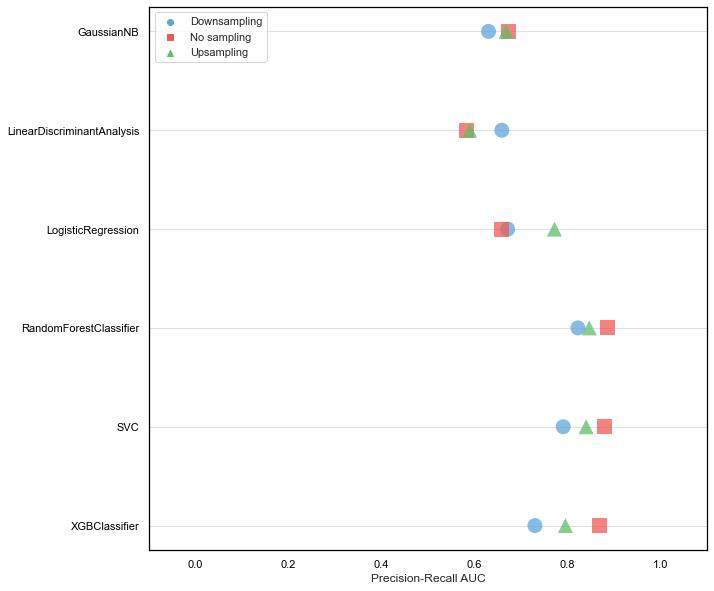
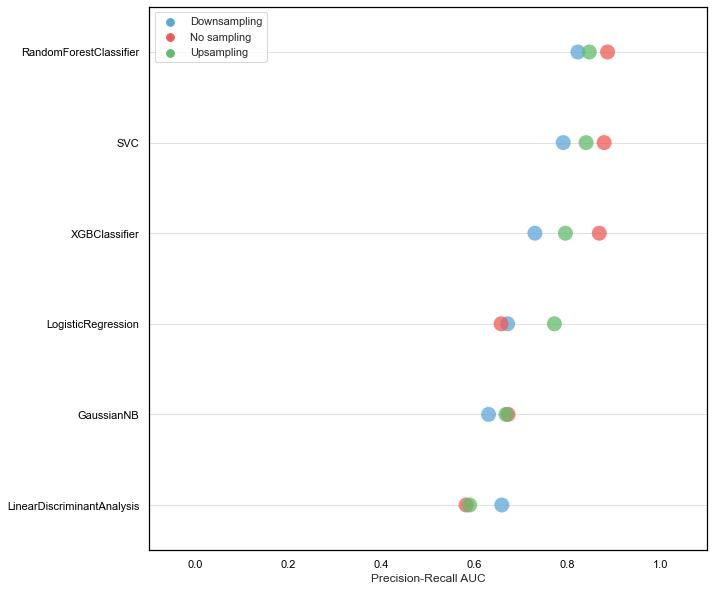
fixed plots

diff --git a/code/model_comparison.py b/code/model_comparison.py
@@ -29,8 +29,8 @@ for idx, val in enumerate(df.columns[2:]):
     df = df.sort_values(by=['Model', 'Sampling',val], ascending=True)
     
     plt.figure(figsize=(10, 10))
-    ax = sns.scatterplot(data = df, y = 'Model', x = val, hue = 'Sampling', style='Sampling', s=225, linewidth=0, alpha=0.75, markers=('o','s','^'), palette=[medium[1],medium[8],medium[3]])
-    #ax = sns.stripplot(y = df['Model'], x = df[val], hue = df['Sampling'], s=15, jitter=False, order=sorted_index_descent, alpha=0.75, palette=[medium[1],medium[8],medium[3]])
+    #ax = sns.scatterplot(data = df, y = 'Model', x = val, hue = 'Sampling', style='Sampling', s=225, linewidth=0, alpha=0.75, markers=('o','s','^'), palette=[medium[1],medium[8],medium[3]])
+    ax = sns.stripplot(y = df['Model'], x = df[val], hue = df['Sampling'], s=15, jitter=False, order=sorted_index_descent, alpha=0.75, palette=[medium[1],medium[8],medium[3]])
     ax.set_ylabel('')
     ax.set_xlabel(val)
     ax.set_xlim([-.1,1.1])
